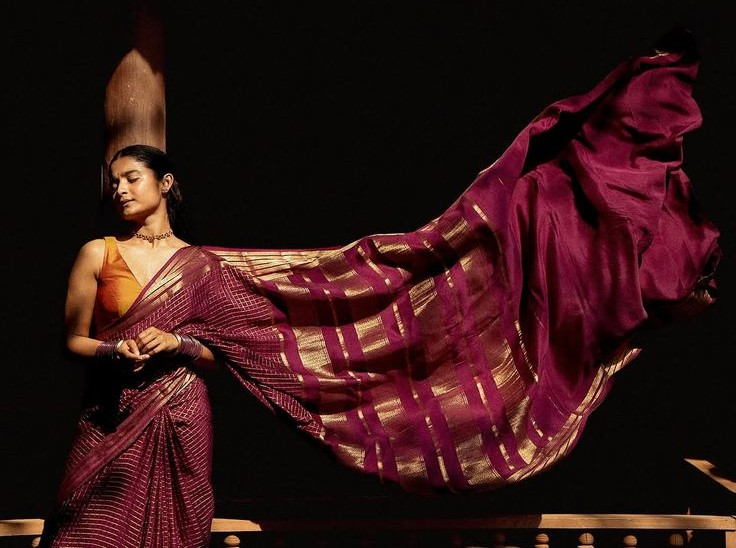
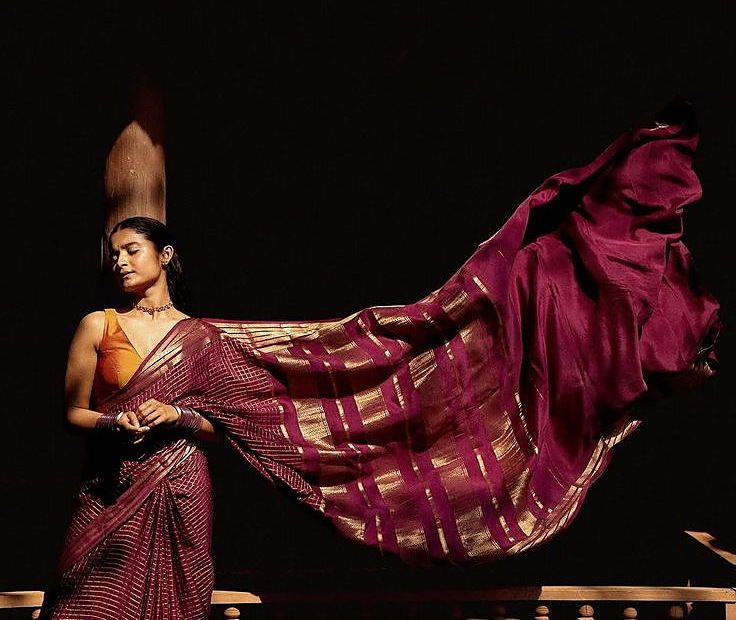
Sharper Our Story photo, shop-by-category tiles

diff --git a/client/src/home.css b/client/src/home.css
@@ -442,3 +442,34 @@ h1, h2 { text-wrap: balance }
 .adm-slots { display: grid; grid-template-columns: repeat(auto-fit, minmax(320px, 1fr)); gap: 24px; align-items: start } .adm-slots > .btn { grid-column: 1 / -1; justify-self: start }
 .adm-prev { aspect-ratio: 4 / 3; border-radius: 20px; background: linear-gradient(135deg, #f7efe6, #efd8d0); display: grid; place-items: center; overflow: hidden; margin: 12px 0 } .adm-prev img { max-width: 100%; max-height: 100%; object-fit: contain }
 @media (max-width: 859px) { .adm-split { grid-template-columns: 1fr } .adm-list ul { max-height: 280px } }
+
+/* ---- Our Story: photo shown at its native size beside the wine panel (no stretching) ---- */
+.story3-card { grid-template-columns: minmax(0, .8fr) minmax(0, 1.2fr); min-height: 0; background: #4e0e26 }
+.story3-img { position: relative; inset: auto; grid-column: 1; grid-row: 1; width: 100%; height: 100%; min-height: clamp(520px, 50vw, 720px); object-fit: cover; object-position: 50% 35%;
+  -webkit-mask-image: linear-gradient(90deg, #000 72%, transparent 100%); mask-image: linear-gradient(90deg, #000 72%, transparent 100%) }
+.story3-panel { grid-column: 2; grid-row: 1; background: none }
+.story3-arch { left: 40%; color: rgba(226, 190, 120, .2) }
+@media (max-width: 900px) {
+  .story3-card { grid-template-columns: 1fr }
+  .story3-img { grid-column: 1; min-height: 0; height: clamp(320px, 88vw, 480px); -webkit-mask-image: linear-gradient(180deg, #000 70%, transparent 100%); mask-image: linear-gradient(180deg, #000 70%, transparent 100%) }
+  .story3-panel { grid-column: 1; grid-row: 2; background: none }
+}
+
+/* ---- Our Story: tighter crop so the model sits larger ---- */
+.story3-img { min-height: clamp(440px, 40vw, 560px); object-position: 50% 100% }
+
+/* ---- shop by category: round tiles ---- */
+.cc { background: var(--cream); padding: clamp(40px, 5vw, 80px) var(--pad) clamp(6px, 1vw, 16px); color: var(--ob); --ink: #09090D; --paper: #F5F0E8 }
+.cc-head { max-width: 1500px; margin: 0 auto clamp(22px, 3vw, 40px); text-align: center; display: grid; gap: 10px }
+.cc-head h2 { font-size: clamp(30px, 3.6vw, 56px); letter-spacing: -.03em }
+.cc-row { max-width: 1500px; margin: 0 auto; display: flex; justify-content: center; gap: clamp(16px, 2.6vw, 40px); overflow-x: auto; scrollbar-width: none; padding: 8px 4px 18px }
+.cc-row::-webkit-scrollbar { display: none }
+.cc-row > li { flex: 0 0 auto }
+.cc-item { display: grid; justify-items: center; gap: 6px; width: clamp(118px, 12vw, 170px); text-align: center }
+.cc-img { width: 100%; aspect-ratio: 1; border-radius: 50%; overflow: hidden; background: var(--plum); box-shadow: 0 14px 34px rgba(110, 70, 60, .18), inset 0 0 0 4px rgba(255, 255, 255, .7); transition: transform .6s var(--ease), box-shadow .6s var(--ease) }
+.cc-img > * { transition: transform 1s var(--ease) }
+.cc-item:hover .cc-img { transform: translateY(-6px); box-shadow: 0 22px 44px rgba(110, 70, 60, .26), inset 0 0 0 4px #fff } .cc-item:hover .cc-img > * { transform: scale(1.1) }
+.cc-name { margin-top: 10px; font-weight: 700; font-size: 15px; letter-spacing: -.005em }
+.cc-n { font-size: 12px; opacity: .6 } .cc-n i { font-style: normal; display: inline-block; transition: transform .4s var(--ease) } .cc-item:hover .cc-n i { transform: translateX(4px) }
+@media (max-width: 959px) { .cc-row { justify-content: flex-start; scroll-snap-type: x proximity } .cc-row > li { scroll-snap-align: start } }
+.story3-img { object-position: 0% 100% }

diff --git a/client/src/pages/Home.jsx b/client/src/pages/Home.jsx
@@ -7,6 +7,7 @@ import { Magnetic, Reveal } from '../components/Motion';
 import ImmersiveHero from '../components/hero/ImmersiveHero';
 import FeaturedCollections from '../components/FeaturedCollections';
 import CollectionsFlow from '../components/CollectionsFlow';
+import CategoryCircles from '../components/CategoryCircles';
 import CustomerReviews from '../components/CustomerReviews';
 import InstagramStrip from '../components/InstagramStrip';
 import StoreLocationMap from '../components/StoreLocationMap';
@@ -23,7 +24,7 @@ function Story() {
   return (
     <section className="story3" aria-labelledby="story-h">
       <Reveal className="story3-card">
-        <img className="story3-img" src={b.storyImage || media.storyImage} alt={b.storyAlt || media.storyAlt} loading="lazy" width="736" height="548" />
+        <img className="story3-img" src={b.storyImage || media.storyImage} alt={b.storyAlt || media.storyAlt} loading="lazy" width="736" height="620" />
         <svg className="story3-arch" viewBox="0 0 400 520" fill="none" stroke="currentColor" strokeWidth="1.1" aria-hidden="true">
           <path d="M40 520V230c0-26 14-40 32-46 8-20 22-30 42-28 10-20 28-28 46-24 8-16 22-22 40-22s32 6 40 22c18-4 36 4 46 24 20-2 34 8 42 28 18 6 32 20 32 46v290" />
           <path d="M72 520V240c0-20 10-30 26-36 6-16 18-22 34-20 8-16 22-22 38-18 6-12 18-18 30-18s24 6 30 18c16-4 30 2 38 18 16-2 28 4 34 20 16 6 26 16 26 36v280" opacity=".55" />
@@ -75,6 +76,7 @@ export default function Home() {
   return (
     <div ref={root} className="home">
       <ImmersiveHero />
+      <CategoryCircles />
       <FeaturedCollections />
       <CollectionsFlow />
       <Story />

diff --git a/client/src/components/CategoryCircles.jsx b/client/src/components/CategoryCircles.jsx
@@ -1,0 +1,28 @@
+import { Link } from 'react-router-dom';
+import { useApp } from '../context/App';
+import { Reveal } from './Motion';
+import { ProductMedia } from './ProductCard3D';
+
+// Round category tiles built from the real categories (ordered by how many pieces each holds).
+// Uses a category cover uploaded in Admin → Storefront images; otherwise a generated placeholder.
+export default function CategoryCircles() {
+  const { catalog } = useApp();
+  const cats = [...catalog.categories].filter(c => c.product_count > 0).sort((a, b) => b.product_count - a.product_count).slice(0, 8);
+  if (!cats.length) return null;
+  return (
+    <section className="cc" aria-labelledby="cc-h">
+      <Reveal className="cc-head"><p className="eyebrow">BROWSE</p><h2 id="cc-h">SHOP BY CATEGORY</h2></Reveal>
+      <ul className="cc-row">
+        {cats.map((c, i) => (
+          <Reveal as="li" key={c.slug} delay={i * 0.05}>
+            <Link to={`/shop?category=${c.slug}`} className="cc-item" data-cursor="VIEW" aria-label={`${c.name}, ${c.product_count} pieces`}>
+              <span className="cc-img"><ProductMedia p={{ slug: c.slug, name: c.name, image: c.image_url }} view={i % 4} /></span>
+              <span className="cc-name">{c.name}</span>
+              <span className="cc-n">{c.product_count} {c.product_count === 1 ? 'piece' : 'pieces'} <i aria-hidden="true">→</i></span>
+            </Link>
+          </Reveal>
+        ))}
+      </ul>
+    </section>
+  );
+}
